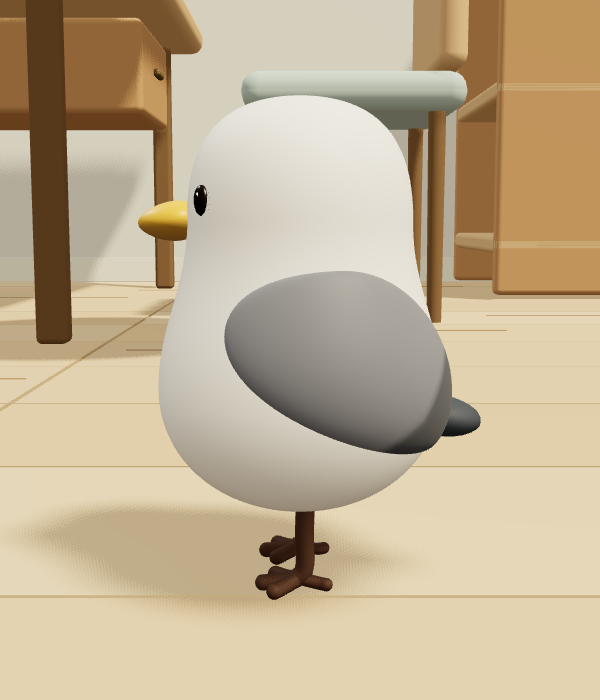
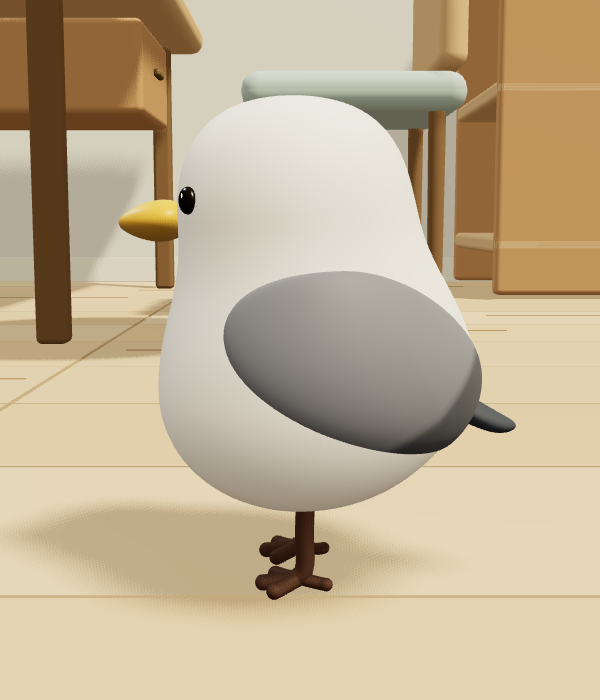
Sculpt a fuller bird back, round eyes and tapered bill and tail [skip ci]

diff --git a/src/room/art/bird.ts b/src/room/art/bird.ts
@@ -114,20 +114,29 @@ export function createBird() {
   }
 
   // Three tangent-continuous Bezier arcs: round belly, quiet upright cheeks,
-  // and a domed crown. Sampling the outline avoids pinches between control rings.
+  // and a domed crown. The side silhouette is sculpted separately below.
   const outline = new THREE.CurvePath<THREE.Vector2>();
   const arc = (points: number[][]) => outline.add(new THREE.CubicBezierCurve(
     ...points.map(([x, y]) => new THREE.Vector2(x, y)) as [THREE.Vector2, THREE.Vector2, THREE.Vector2, THREE.Vector2],
   ));
   arc([[0, 0.069], [0.080, 0.069], [0.141, 0.117], [0.141, 0.183]]);
-  arc([[0.141, 0.183], [0.141, 0.242], [0.111, 0.277], [0.111, 0.337]]);
-  arc([[0.111, 0.337], [0.111, 0.408], [0.081, 0.451], [0, 0.451]]);
+  arc([[0.141, 0.183], [0.141, 0.242], [0.115, 0.277], [0.115, 0.337]]);
+  arc([[0.115, 0.337], [0.115, 0.408], [0.084, 0.451], [0, 0.451]]);
   const bodyProfile = outline.getPoints(32);
+  // The white rump projects behind the head; the breast stays quieter. This
+  // is the body beneath the feathers, not a bulge faked by oversized wings.
+  const bodyDepthAt = (height: number, depth: number, radius: number) => {
+    const rear = radius > 0.000001 ? Math.max(0, depth / radius) : 0;
+    const rump = 0.032 * Math.exp(-(((height - 0.218) / 0.100) ** 2))
+      * THREE.MathUtils.smoothstep(radius, 0, 0.08);
+    const headForward = 0.006 * THREE.MathUtils.smoothstep(height, 0.265, 0.365);
+    return depth * 0.94 + rear * rear * rump - headForward;
+  };
   const bodyGeometry = new THREE.LatheGeometry(bodyProfile, 64);
   const bodyPositions = bodyGeometry.getAttribute("position");
-  // Slightly fuller breast than crown, continuous depth in front and behind.
   for (let i = 0; i < bodyPositions.count; i++) {
-    bodyPositions.setZ(i, bodyPositions.getZ(i) * 0.94);
+    const radius = Math.hypot(bodyPositions.getX(i), bodyPositions.getZ(i));
+    bodyPositions.setZ(i, bodyDepthAt(bodyPositions.getY(i), bodyPositions.getZ(i), radius));
   }
   mesh("bird-continuous-white-pear", smoothSculpt(bodyGeometry), white);
   const bodyRadiusAt = (height: number) => {
@@ -155,7 +164,7 @@ export function createBird() {
     wingPositions.setXYZ(i,
       Math.cos(angle) * (radius + 0.007) + x * 0.018 - 0.11,
       height - 0.285,
-      Math.sin(angle) * (radius * 0.94 + 0.012),
+      bodyDepthAt(height, Math.sin(angle) * radius, radius) + Math.sin(angle) * 0.012,
     );
     const dark = THREE.MathUtils.smoothstep(t + z * 0.35, 0.76, 0.82);
     color.copy(shoulderColor).lerp(featherColor, dark);
@@ -175,20 +184,36 @@ export function createBird() {
 
   const tail = new THREE.Group();
   tail.name = "bird-tail-pivot";
-  tail.position.set(0, 0.156, 0.103);
+  tail.position.set(0, 0.173, 0.130);
   sculpture.add(tail);
-  const tailShape = oval("bird-short-tail", [0.034, 0.019, 0.041], [0, 0, 0.028], tailMaterial, tail);
-  tailShape.rotation.x = 0.15;
+  // A single flattened feather: broad at the rump, thin and gently pointed
+  // behind. Its downward sweep also makes a rounded point in the back view.
+  const tailGeometry = new THREE.SphereGeometry(1, 40, 28);
+  const tailPositions = tailGeometry.getAttribute("position");
+  for (let i = 0; i < tailPositions.count; i++) {
+    const x = tailPositions.getX(i), y = tailPositions.getY(i), z = tailPositions.getZ(i);
+    const t = (z + 1) / 2;
+    tailPositions.setXYZ(i,
+      x * 0.043 * (1 - t * 0.55),
+      y * 0.015 * (1 - t * 0.25) - THREE.MathUtils.smoothstep(t, 0, 1) * 0.027,
+      -0.008 + t * 0.083,
+    );
+  }
+  mesh("bird-short-tail", smoothSculpt(tailGeometry), tailMaterial, tail);
 
   const eyes = [-1, 1].map((side) => {
     const root = new THREE.Group();
     root.name = side < 0 ? "bird-left-eye" : "bird-right-eye";
-    root.position.set(side * 0.061, 0.356, -0.084);
+    const eyeHeight = 0.356;
+    const eyeX = 0.061;
+    const faceRadius = bodyRadiusAt(eyeHeight);
+    const faceDepth = bodyDepthAt(eyeHeight, -Math.sqrt(faceRadius ** 2 - eyeX ** 2), faceRadius);
+    root.position.set(side * eyeX, eyeHeight, faceDepth);
     root.rotation.y = side * -0.49;
     root.rotation.x = -0.02;
     sculpture.add(root);
-    oval("bird-glossy-eye", [0.0105, 0.0135, 0.0064], [0, 0, -0.001], eyeMaterial, root);
-    const glint = oval("bird-eye-small-softbox", [0.0016, 0.0023, 0.0006], [-0.0025, 0.0049, -0.0062], glintMaterial, root);
+    oval("bird-glossy-eye", [0.0128, 0.0120, 0.0072], [0, 0, -0.0005], eyeMaterial, root);
+    const glint = oval("bird-eye-small-softbox", [0.0016, 0.0023, 0.0006], [-0.0028, 0.0042, -0.0071], glintMaterial, root);
     glint.castShadow = false;
     glint.receiveShadow = false;
     return root;
@@ -205,15 +230,18 @@ export function createBird() {
     const x = beakPositions.getX(i), y = beakPositions.getY(i), z = beakPositions.getZ(i);
     const front = (1 - z) / 2;
     beakPositions.setXYZ(i,
-      x * 0.036 * (1 - front * 0.38),
-      y * 0.022 * (1 - front * 0.35) - front * 0.003,
-      z * 0.030,
+      x * 0.039 * (1 - front * 0.55),
+      y * 0.024 * (1 - front * 0.45) - front * 0.003,
+      0.027 - front * 0.065,
     );
     color.copy(lowerBeak).lerp(upperBeak, THREE.MathUtils.smoothstep(y, -0.32, 0.19));
     beakColors.push(color.r, color.g, color.b);
   }
   beakGeometry.setAttribute("color", new THREE.Float32BufferAttribute(beakColors, 3));
-  mesh("bird-rounded-yellow-bill", smoothSculpt(beakGeometry), beakMaterial).position.set(0, 0.340, -0.120);
+  const billHeight = 0.340;
+  const billRadius = bodyRadiusAt(billHeight);
+  const billRoot = bodyDepthAt(billHeight, -billRadius, billRadius);
+  mesh("bird-rounded-yellow-bill", smoothSculpt(beakGeometry), beakMaterial).position.set(0, billHeight, billRoot - 0.017);
 
   const feet = [-1, 1].map((side) => {
     const root = new THREE.Group();

diff --git a/docs/ROOM_BIRD.md b/docs/ROOM_BIRD.md
@@ -4,7 +4,7 @@
 
 ## 見た目
 
-- 全高約45cm。操作キャラクターより小さい、頭と胴が連続した丸い白い体。
+- 全高約45cm。操作キャラクターより小さい、頭と胴が連続し、背中側にふくらみのある白い体。
 - 小さな黒茶色の目、黄色い丸いくちばし、濃い羽先を持つグレーの翼、短い尾、茶色の三本指の足。
 - 短いジャンプに合わせた体の伸縮、足の引き上げ、小さな羽の揺れ、時折のまばたき。
 - 正面・真横・背面・斜めで見比べ、羽の胴への沿い方と位置、尾の長さを調整。部屋の照明と390px幅でも確認。
@@ -13,19 +13,21 @@
 
 [部屋・PC](screenshots/bird-room-desktop.png) ／ [部屋・スマホ](screenshots/bird-room-mobile.png)
 
-## 今回の外観調整（2026-10-18）
+## 今回の外観調整（2026-10-18：背中・丸目・先端）
 
-基準コミット `04efcdb` と所有者の正面・横・背面画像を比較し、4方向の描画を繰り返して調整しました。
+基準コミット `03d6c11` と所有者の正面・横・背面画像を比較しました。横顔を優先し、複数回の描画で次を調整しています。
 
-- **翼**：横に置いた楕円体から、胴の曲面へ巻き付く形に再構成。正面の張り出しを抑え、横では丸い前肩から後ろへ広がり、背面では両翼の間に白い背中が残るよう調整しました。上部の明るいグレーと、斜めに切り替わる暗い羽先も修正。
-- **白い体**：頭・腹・底を接線が連続する曲線でつなぎ、下腹の膨らみと丸い底を調整。首の継ぎ目はありません。
-- **顔**：目をわずかに横へふくらませ、新しい胴の表面に配置。くちばしは幅と根元の厚みを増やし、前端へ丸く細まる形にしました。
-- **尾・足**：尾を短く厚くし、足の円周と指のカーブを滑らかに。グレー・黄・茶の色も比較して調整しました。
-- **表面**：マットな体・翼・尾・足に、小鳥専用の柔らかな拡散反射を適用。部屋の日光でも硬い明暗境界が出にくくしています。目とくちばしの光沢反射は従来の計算です。
+- **白い胴**：前後対称の回転体から、背中〜腰へ張り出す形へ変更。頭の中心より胴の中心が約1.95cm後ろにあり、胸より背中側の膨らみが大きくなっています。白い体そのものを変形し、羽を大きくして膨らみを代用していません。
+- **羽の載り方**：白い胴と同じ曲面計算を使い、背中の膨らみの上へ沿わせました。
+- **頭と目**：頭幅を約4%広げ、目を縦長から真円に近い形に。新しい顔の表面へ位置を合わせ直しました。
+- **くちばし**：根元に厚みを残し、横から先端へ絞った形へ。最初の案は尖りすぎたため、先端に丸みを戻しました。
+- **尾**：楕円の塊から、根元が広く後ろへ薄くなる羽へ変更。横では寝た形、背面では下中央へ丸くすぼむ形にしました。
 
-[変更前後の三方向](screenshots/bird-before-after.png) は、上段が `04efcdb`、下段が今回のモデルです。両方を同じカメラ・同じ柔らかいスタジオ照明で撮り直しました。比較用照明の変更は開発ページだけに適用しています。
+[変更前後の三方向](screenshots/bird-before-after.png) は、上段が `03d6c11`、下段が今回のモデルです。カメラ・照明・縮尺は同じです。[白い体だけの側面](screenshots/bird-white-profile.png) は形状確認のため羽と尾を一時的に非表示にした描画で、公開サイトでは通常どおり表示されます。
 
-実際の部屋の照明でも [正面](screenshots/bird-room-close-front.png)・[横](screenshots/bird-room-close-side.png)・[後ろ](screenshots/bird-room-close-back.png) を近接撮影しました。これは造形確認用のカメラであり、プレイ中のカメラ設定には追加していません。
+部屋の照明でも [正面](screenshots/bird-room-close-front.png)・[横](screenshots/bird-room-close-side.png)・[後ろ](screenshots/bird-room-close-back.png) を近接撮影しています。これは造形確認用カメラで、プレイ中のカメラ設定には追加していません。
+
+前回の翼の再構成・柔らかな拡散反射は維持しています。[前回の比較画像](https://github.com/nagaihimitsu/website/blob/03d6c11/docs/screenshots/bird-before-after.png) は `04efcdb` から `03d6c11` への変更です。
 
 ## 動きと当たり判定
 
@@ -43,9 +45,9 @@
 
 - 固定照明の4方向を繰り返し比較。最終版を正面・真横・背面・斜めで撮影。
 - 部屋の照明の近接3方向と、本番ビルドのPC／390px幅表示を確認。ページ例外・シェーダーエラーなし。
-- 静的監査1回：全頂点属性・行列が有限、インデックスと法線が正常。二重disposeでも各リソースの破棄は1回。
-- 11メッシュ、39,536三角形、形状6・材質7。静止寸法は約32.0×45.0×32.2cmで、既存の幅42cmの当たり判定内。
-- `npm run build` 成功：データ検証・ライセンス生成・TypeScript・Viteビルド。部屋JSは93.43KB（gzip 37.24KB）。
+- 静的監査1回：全頂点属性・行列が有限、インデックスと法線が正常。上下の極で形状が連続し、各極は1頂点へ溶接。二重disposeでも各リソースの破棄は1回。
+- 11メッシュ、40,976三角形、形状7・材質7。水平半径は最大20.5cmで、任意の向きでも既存の幅42cmの当たり判定内。
+- `npm run build` 成功：データ検証・ライセンス生成・TypeScript・Viteビルド。部屋JSは93.97KB（gzip 37.45KB）。
 - 公開ワークフローは `validation: visual` を使用し、既存の部屋描画テスト1件と本番ビルドに限定。
 
 移動・ジャンプ・パンチなどの操作コードは変更していません。追加時に成功した小鳥単体テスト7件・ブラウザテスト2件は今回再実行していません。

diff --git a/docs/VALIDATION.md b/docs/VALIDATION.md
@@ -1,10 +1,16 @@
 # 実装検証
 
-## 小鳥の外観調整（2026-10-18）
+## 小鳥の外観調整（2026-10-18：背中・丸目・先端）
+
+`03d6c11` を基準に、白い体を背中側へふくらませ、翼もその面へ沿わせました。頭幅を少し広げ、目を丸くし、くちばしと尾を根元から先端へ絞る形へ調整。固定照明の4方向を複数回比較し、羽を隠した白い側面でも形状を確認しました。部屋の近接3方向と本番ビルドのPC／390px幅表示でページ例外・シェーダーエラーなし。
+
+形状の静的監査1回と `npm run build` が成功。11メッシュ、40,976三角形、形状7・材質7。水平半径最大20.5cmで既存の当たり判定内です。操作コードは変更せず、公開時は `validation: visual` で描画1件とビルドに絞ります。[外観の詳細・比較画像](ROOM_BIRD.md)。以下は前回までの記録です。
+
+## 前回の小鳥の外観調整（2026-10-18：翼と陰影）
 
 `04efcdb` を基準に、翼の回り込み・白い体・目とくちばし・尾と足・マットな陰影を修正しました。正面・横・背面・斜めの描画を繰り返し比較し、最後に部屋の照明の近接3方向と、本番ビルドのPC／390px幅でも確認しました。ページ例外・シェーダーエラーなし。変更前後は同じ照明で撮影しています。
 
-静的監査1回と `npm run build` が成功。操作コードの変更はなく、操作テストの再実行は省いています。公開時は `validation: visual` で部屋描画1件とビルドに絞ります。[外観の詳細と画像](ROOM_BIRD.md#今回の外観調整2026-10-18)。以下は前回までの記録です。
+静的監査1回と `npm run build` が成功。操作コードの変更はなく、操作テストの再実行は省いています。公開時は `validation: visual` で部屋描画1件とビルドに絞ります。[外観の詳細と画像](https://github.com/nagaihimitsu/website/blob/03d6c11/docs/ROOM_BIRD.md)。以下は前回までの記録です。
 
 ## 小鳥NPCの追加（2026-10-18）
 
